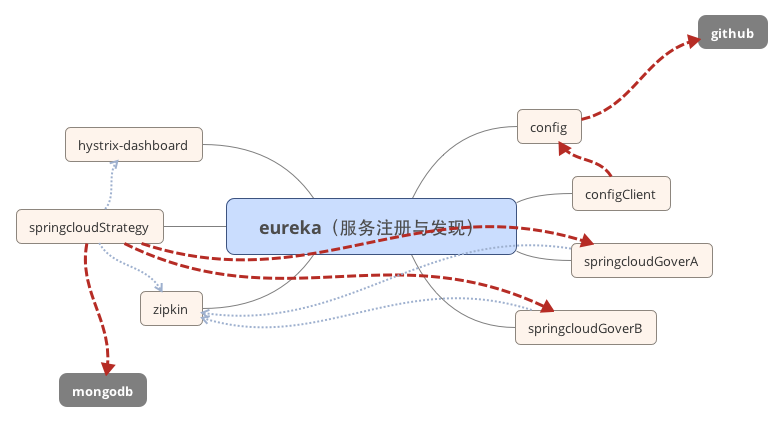
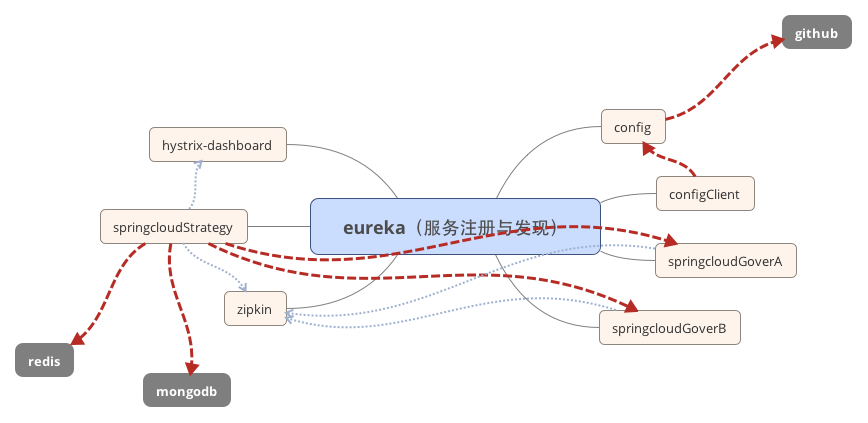
add redis

Changed region(s): [[0.0, 0.0307, 1.0, 0.9835], [0.0918, 0.3073, 0.398, 0.3995], [0.398, 0.3688, 0.4286, 0.3995]]

diff --git a/springcloudStrategy/src/main/java/me/star2478/springcloudStrategy/controller/TestController.java b/springcloudStrategy/src/main/java/me/star2478/springcloudStrategy/controller/TestController.java
@@ -2,12 +2,18 @@ package me.star2478.springcloudStrategy.controller;
 
 
 import java.util.HashMap;
+import java.util.Set;
 import java.util.concurrent.TimeUnit;
 
 import org.apache.log4j.Logger;
 import org.springframework.beans.factory.annotation.Autowired;
 import org.springframework.cloud.client.ServiceInstance;
 import org.springframework.cloud.client.discovery.DiscoveryClient;
+import org.springframework.data.redis.core.HashOperations;
+import org.springframework.data.redis.core.RedisTemplate;
+import org.springframework.data.redis.core.SetOperations;
+import org.springframework.data.redis.core.StringRedisTemplate;
+import org.springframework.data.redis.core.ValueOperations;
 import org.springframework.web.bind.annotation.RequestMapping;
 import org.springframework.web.bind.annotation.RequestMethod;
 import org.springframework.web.bind.annotation.RequestParam;
@@ -19,6 +25,8 @@ import com.netflix.hystrix.contrib.javanica.annotation.HystrixCommand;
 import me.star2478.springcloudStrategy.dao.KnowledgeStrategyConfigDAO;
 import me.star2478.springcloudStrategy.dao.KnowledgeStrategyStatDAO;
 import me.star2478.springcloudStrategy.dto.KnowledgeStrategyConfigDTO;
+import me.star2478.springcloudStrategy.redis.User;
+//import me.star2478.springcloudStrategy.redis.User;
 
 @RestController
 public class TestController {
@@ -31,7 +39,18 @@ public class TestController {
 	private KnowledgeStrategyConfigDAO knowledgeStrategyConfigDAO;
 	
     @Autowired
-    RestTemplate restTemplate;
+    private RestTemplate restTemplate;
+
+    // redis
+	@Autowired
+	private RedisTemplate<String, String> redisTemplateString;
+	
+	@Autowired
+	private StringRedisTemplate redisTemplateHash;
+	
+    @Autowired
+	private RedisTemplate<String, User> redisTemplateObject;
+
 
     @HystrixCommand(fallbackMethod = "testFallback")
     @RequestMapping(value = "/test", method = RequestMethod.GET)
@@ -74,5 +93,77 @@ public class TestController {
     	System.out.println("-----" + knowledgeStrategyConfigDTO.get_id());
     	System.out.println("-----" + knowledgeStrategyConfigDTO1.get_id());
     	return knowledgeStrategyConfigDTO;
+    }
+    
+    /**
+     * redis普通set和get
+     * @param key
+     * @param value
+     * @return
+     */
+    @RequestMapping(value = "/redisSetString")
+    public String redisSetString(String key, String value) {
+    	ValueOperations<String, String> ops = redisTemplateString.opsForValue();
+        if (!redisTemplateString.hasKey(key)) {  
+            ops.set(key, "fodo");  
+            logger.warn("Found key " + key + ", value=" + ops.get(key) );  
+        } else {  
+            logger.warn("key is " + key + " exists!");  
+        }  
+    	
+    	ops.set(key, value);
+    	return ops.get(key);
+    }
+    
+    /**
+     * redis普通hash的set、get、del、expire
+     * @param key
+     * @param field
+     * @param value
+     * @return
+     */
+    @RequestMapping(value = "/redisHSetString")
+    public boolean redisHSetString(String key, String field, Float value) {
+    	HashOperations<String, Object, Object> ops = redisTemplateHash.opsForHash();
+    	ops.put(key, field, value.toString());
+    	ops.increment(key, field, 3.1);
+        ops.put(key, field + "-1", ((Float)(value + 1l)).toString());
+        ops.put(key, field + "-2", ((Float)(value + 1l)).toString());
+    	if (!redisTemplateHash.hasKey(key)) {
+            logger.warn("key not exist");
+        } else {
+        	logger.warn("key is exist");
+        }
+    	// 获取所有field
+    	printAllFieldsAndValues(ops, key);
+        logger.warn("==========");
+    	ops.delete(key, field + "-2");
+    	printAllFieldsAndValues(ops, key);
+    	// 设置过期时间
+//        redisTemplateHash.expire(key, 10, TimeUnit.SECONDS);
+    	return true;
+    }
+    
+    /**
+     * redis对非string value的set/get
+     * @param key
+     * @param value
+     * @return
+     */
+    @RequestMapping(value = "/redisSetObject")
+    public Integer redisSetObject(String key, Integer value) {
+    	User user = new User(key, value);
+    	ValueOperations<String, User> ops = redisTemplateObject.opsForValue();
+		ops.set(user.getUsername(), user);
+		return redisTemplateObject.opsForValue().get(key).getAge().intValue();
+    }
+    
+    // 打印redis hash的所有field和value
+    private void printAllFieldsAndValues(HashOperations<String, Object, Object> ops, String key) {
+
+        Set<Object> fields = ops.keys(key);
+        for (Object echoField : fields) {
+            logger.warn(echoField+": "+ops.get(key, echoField));
+        }
     }
 }

diff --git a/springcloudStrategy/src/main/java/me/star2478/springcloudStrategy/redis/RedisConfig.java b/springcloudStrategy/src/main/java/me/star2478/springcloudStrategy/redis/RedisConfig.java
@@ -1,0 +1,69 @@
+package me.star2478.springcloudStrategy.redis;
+
+import java.net.UnknownHostException;
+
+import org.springframework.beans.factory.annotation.Value;
+import org.springframework.boot.autoconfigure.condition.ConditionalOnMissingBean;
+import org.springframework.context.annotation.Bean;
+import org.springframework.context.annotation.Configuration;
+import org.springframework.context.annotation.PropertySource;
+import org.springframework.data.redis.connection.RedisConnectionFactory;
+import org.springframework.data.redis.connection.jedis.JedisConnectionFactory;
+import org.springframework.data.redis.core.RedisTemplate;
+import org.springframework.data.redis.serializer.*;
+
+/**
+ * 
+ * redis配置类，注入必要的bean
+ * 
+ * 高能高能高能：如果value是String，不需要此配置类！！
+ * 高能高能高能：如果value不是String对象，比如User，需要此配置类，且需要自己实现对象的序列化和反序列化，见RedisObjectSerializer
+ * 
+ * @author heliuxing
+ *
+ */
+@Configuration
+public class RedisConfig {
+
+	@Value("${spring.redis.host}")
+	private String host;
+
+	@Value("${spring.redis.port}")
+	private Integer port;
+
+	@Value("${spring.redis.password}")
+	private String password;
+	
+    @Bean
+    JedisConnectionFactory jedisConnectionFactory() {
+//        return new JedisConnectionFactory();
+    	JedisConnectionFactory jedisConnectionFactory = new JedisConnectionFactory();
+    	jedisConnectionFactory.setHostName(host);
+    	jedisConnectionFactory.setPort(port);
+    	jedisConnectionFactory.setPassword(password);
+    	return jedisConnectionFactory;
+    }
+
+    // springboot已经自动将JedisConnectionFactory注入进来了
+    @Bean
+//    public RedisTemplate<String, User> redisTemplate(RedisConnectionFactory factory) {
+    public RedisTemplate<String, User> redisTemplate(JedisConnectionFactory factory) {
+        RedisTemplate<String, User> template = new RedisTemplate<String, User>();
+        template.setConnectionFactory(factory);
+        template.setKeySerializer(new StringRedisSerializer());	// key的序列化/反序列化用spring自带的
+        template.setValueSerializer(new RedisObjectSerializer());	// value的序列化/反序列化用我们自己定义的
+        return template;
+    }
+
+    //spring boot自动加载redis配置及注入org.springframework.boot.autoconfigure.data.redis.RedisAutoConfiguration.java 中
+    //这边已经注入了JedisConnectionFactory，并从配置中读取配置
+//    @Bean
+//    @ConditionalOnMissingBean({RedisConnectionFactory.class})
+//    public JedisConnectionFactory redisConnectionFactory() throws UnknownHostException {
+//    	return this.applyProperties(this.createJedisConnectionFactory());
+//    }
+//
+//    private JedisConnectionFactory createJedisConnectionFactory() {
+//    	return this.properties.getPool() != null?new JedisConnectionFactory(this.getSentinelConfig(), this.jedisPoolConfig()):new JedisConnectionFactory(this.getSentinelConfig());
+//    }
+}

diff --git a/springcloudStrategy/src/main/java/me/star2478/springcloudStrategy/service/KnowledgeStrategyService.java b/springcloudStrategy/src/main/java/me/star2478/springcloudStrategy/service/KnowledgeStrategyService.java
@@ -76,10 +76,6 @@ public class KnowledgeStrategyService {
 		int expire = knowledgeStrategyConfig.getExpire();
 		List<AppStrategyTrigger> appStrategyTriggers = knowledgeStrategyConfig.getAppStrategyTriggers();
 		
-		/////// 调用下游的治理服务
-		test(key, appId, os, appVersion, data);
-		///////
-		
 		// 将基本信息同步到mongodb
 		synBaseInfo2Mongodb(key, appId, os, appVersion);
 		
@@ -254,30 +250,6 @@ public class KnowledgeStrategyService {
 
 		// 写进local内存///////////////
 		return knowledgeStrategyConfig;
-	}
-	
-	private void test(String key, String appId, String os, String appVersion, Map<String, Object> data) {
-
-		int screenSize = Integer.valueOf(data.get("screenSize").toString());
-		if (screenSize <= 10) {
-			Object result = restTemplate.getForEntity("http://GOVERA/hello", String.class).getBody();
-			System.out.println("\n\nresult:" + result);
-		} else {
-
-			Object result = restTemplate.getForEntity("http://GOVERB/hello", String.class).getBody();
-			System.out.println("\n\nresult:" + result);
-		}
-//		KnowledgeStrategyStatDTO knowledgeStrategyStatDTO = new KnowledgeStrategyStatDTO();
-//		knowledgeStrategyStatDTO.setAppId(appId);
-//		knowledgeStrategyStatDTO.setAppVersion(appVersion);
-//		knowledgeStrategyStatDTO.setKey(key);
-//		knowledgeStrategyStatDTO.setOs(os);
-//		SimpleDateFormat df = new SimpleDateFormat("yyyy-MM-dd HH:mm:ss");
-//		String curTime = df.format(new Date());
-//		knowledgeStrategyStatDTO.setTime(curTime);
-//		knowledgeStrategyStatDTO.setTriggerName("test");
-//		knowledgeStrategyStatDTO.setValue(screenSize);
-//		knowledgeStrategyStatDAO.save(knowledgeStrategyStatDTO);
 	}
 	
 }

diff --git a/springcloudStrategy/src/main/java/me/star2478/springcloudStrategy/redis/RedisObjectSerializer.java b/springcloudStrategy/src/main/java/me/star2478/springcloudStrategy/redis/RedisObjectSerializer.java
@@ -1,0 +1,45 @@
+package me.star2478.springcloudStrategy.redis;
+
+import org.springframework.core.convert.converter.Converter;
+import org.springframework.core.serializer.support.DeserializingConverter;
+import org.springframework.core.serializer.support.SerializingConverter;
+import org.springframework.data.redis.serializer.RedisSerializer;
+import org.springframework.data.redis.serializer.SerializationException;
+
+public class RedisObjectSerializer implements RedisSerializer<Object> {
+
+	private Converter<Object, byte[]> serializer = new SerializingConverter();
+	private Converter<byte[], Object> deserializer = new DeserializingConverter();
+
+	static final byte[] EMPTY_ARRAY = new byte[0];
+
+	// 反序列化
+	public Object deserialize(byte[] bytes) {
+		if (isEmpty(bytes)) {
+			return null;
+		}
+
+		try {
+			return deserializer.convert(bytes);
+		} catch (Exception ex) {
+			throw new SerializationException("Cannot deserialize", ex);
+		}
+	}
+
+	// 序列化
+	public byte[] serialize(Object object) {
+		if (object == null) {
+			return EMPTY_ARRAY;
+		}
+
+		try {
+			return serializer.convert(object);
+		} catch (Exception ex) {
+			return EMPTY_ARRAY;
+		}
+	}
+
+	private boolean isEmpty(byte[] data) {
+		return (data == null || data.length == 0);
+	}
+}

diff --git a/springcloudStrategy/src/test/java/me/star2478/springcloudStrategy/StrategyTest.java b/springcloudStrategy/src/test/java/me/star2478/springcloudStrategy/StrategyTest.java
@@ -6,6 +6,8 @@ import org.junit.Test;
 import org.junit.runner.RunWith;
 import org.springframework.beans.factory.annotation.Autowired;
 import org.springframework.boot.test.SpringApplicationConfiguration;
+import org.springframework.data.redis.core.RedisTemplate;
+import org.springframework.data.redis.core.StringRedisTemplate;
 import org.springframework.http.MediaType;
 import org.springframework.mock.web.MockServletContext;
 import org.springframework.stereotype.Repository;
@@ -39,6 +41,10 @@ public class StrategyTest {
 //	public void setUp() {
 //		userRepository.deleteAll();
 //	}
+	
+	@Autowired
+	private RedisTemplate<String, String> testRedisTemplate;
+
 	@Test
 	public void test() throws Exception {
 		 assertTrue( true );
@@ -64,6 +70,14 @@ public class StrategyTest {
 ////		knowledgeStrategyConfigDTO.setExpire(2000);
 ////		knowledgeStrategyConfigDTO.setOpTime("2018-01-01 00:00:00");
 ////		knowledgeStrategyConfigDAO.save(knowledgeStrategyConfigDTO);
+	}
+	
+	@Test
+	public void testRedis() {
+		// 保存字符串
+		testRedisTemplate.opsForValue().set("aaa", "111");
+		Assert.assertEquals("111", testRedisTemplate.opsForValue().get("aaa"));
+
 	}
 
 }

diff --git a/springcloudStrategy/src/main/java/me/star2478/springcloudStrategy/redis/User.java b/springcloudStrategy/src/main/java/me/star2478/springcloudStrategy/redis/User.java
@@ -1,0 +1,33 @@
+package me.star2478.springcloudStrategy.redis;
+
+import java.io.Serializable;
+
+public class User implements Serializable {
+
+    private static final long serialVersionUID = -1L;
+
+    private String username;
+    private Integer age;
+
+    public User(String username, Integer age) {
+        this.username = username;
+        this.age = age;
+    }
+
+    public String getUsername() {
+        return username;
+    }
+
+    public void setUsername(String username) {
+        this.username = username;
+    }
+
+    public Integer getAge() {
+        return age;
+    }
+
+    public void setAge(Integer age) {
+        this.age = age;
+    }
+
+}

diff --git a/README.md b/README.md
@@ -8,7 +8,7 @@
 * configClient：配置客户端服务，访问配置中心中的配置
 * springcloudGoverA：治理服务A，接入了actuator监控和zipkin服务跟踪
 * springcloudGoverB：治理服务B，接入了actuator监控和zipkin服务跟踪
-* springcloudStrategy：策略服务，访问mongodb、治理服务A/B，接入了hystrix容错、actuator监控和zipkin服务跟踪
+* springcloudStrategy：策略服务，访问mongodb、redis、治理服务A/B，接入了hystrix容错、actuator监控和zipkin服务跟踪
 * hystrix-dashboard：hystrix控制平台，可以查看有哪些接口存活、访问量、是否打开熔断器、异常率、超时率、响应时间分布等
 * zipkin：Twitter开源的服务跟踪平台，可查看有哪些服务、哪些接口、服务间的依赖关系、响应时间等
 
@@ -30,7 +30,6 @@
 	* 启动zipkin：java -jar zipkin-server-xx.jar，占用9411端口
 
 ### todo
-* 接入redis
 * 接入jstorm
 * 接入消息总线
 * 接入doc
